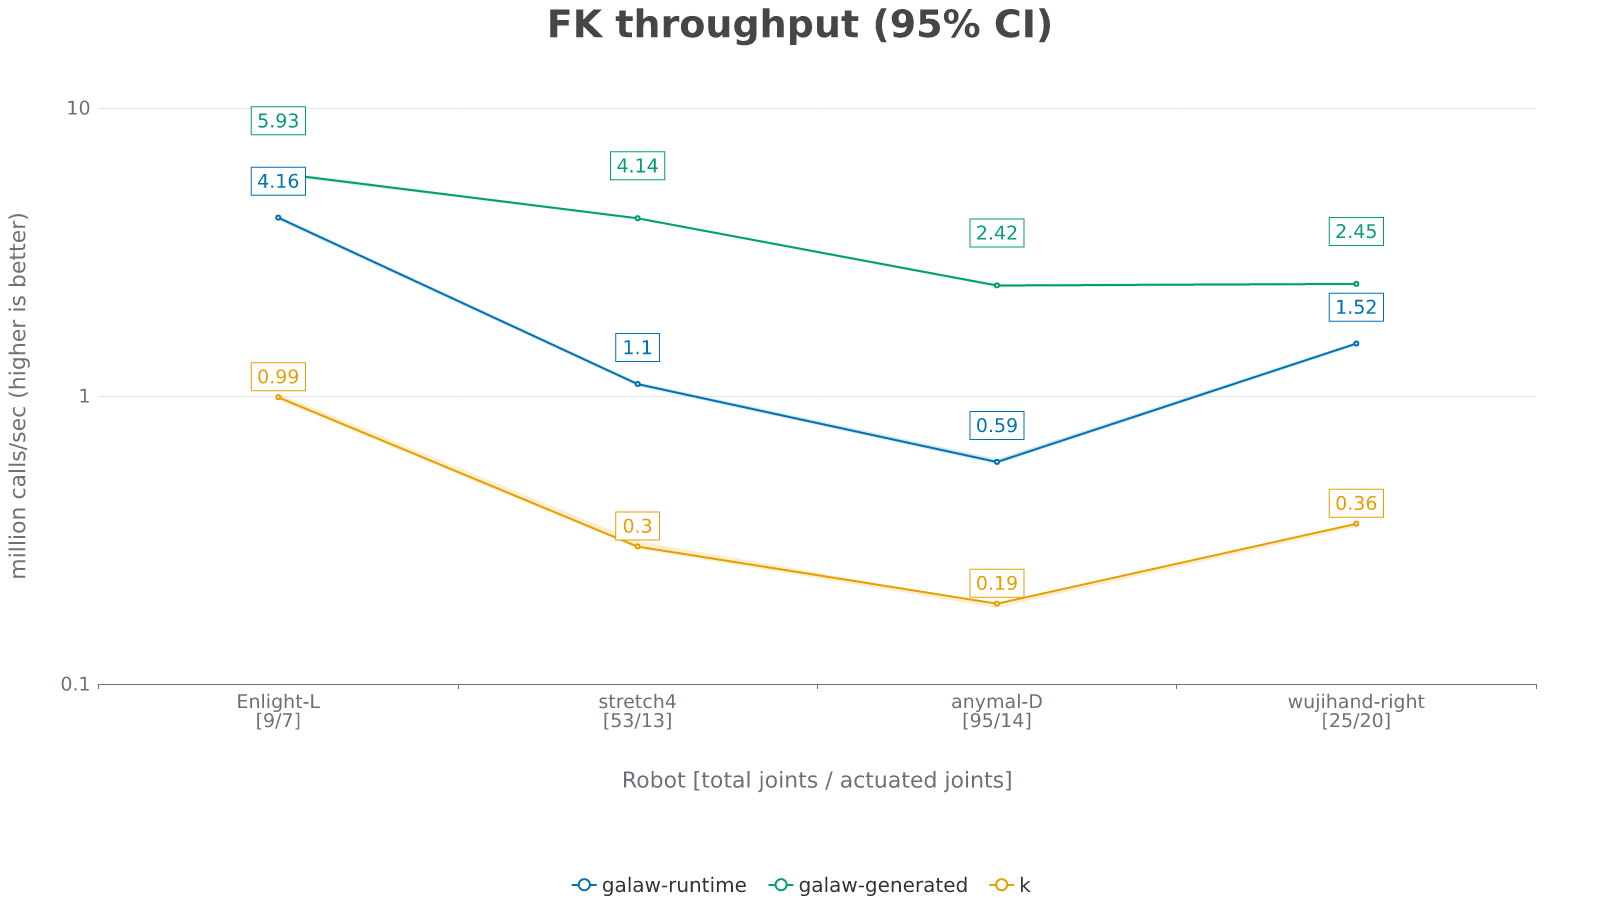
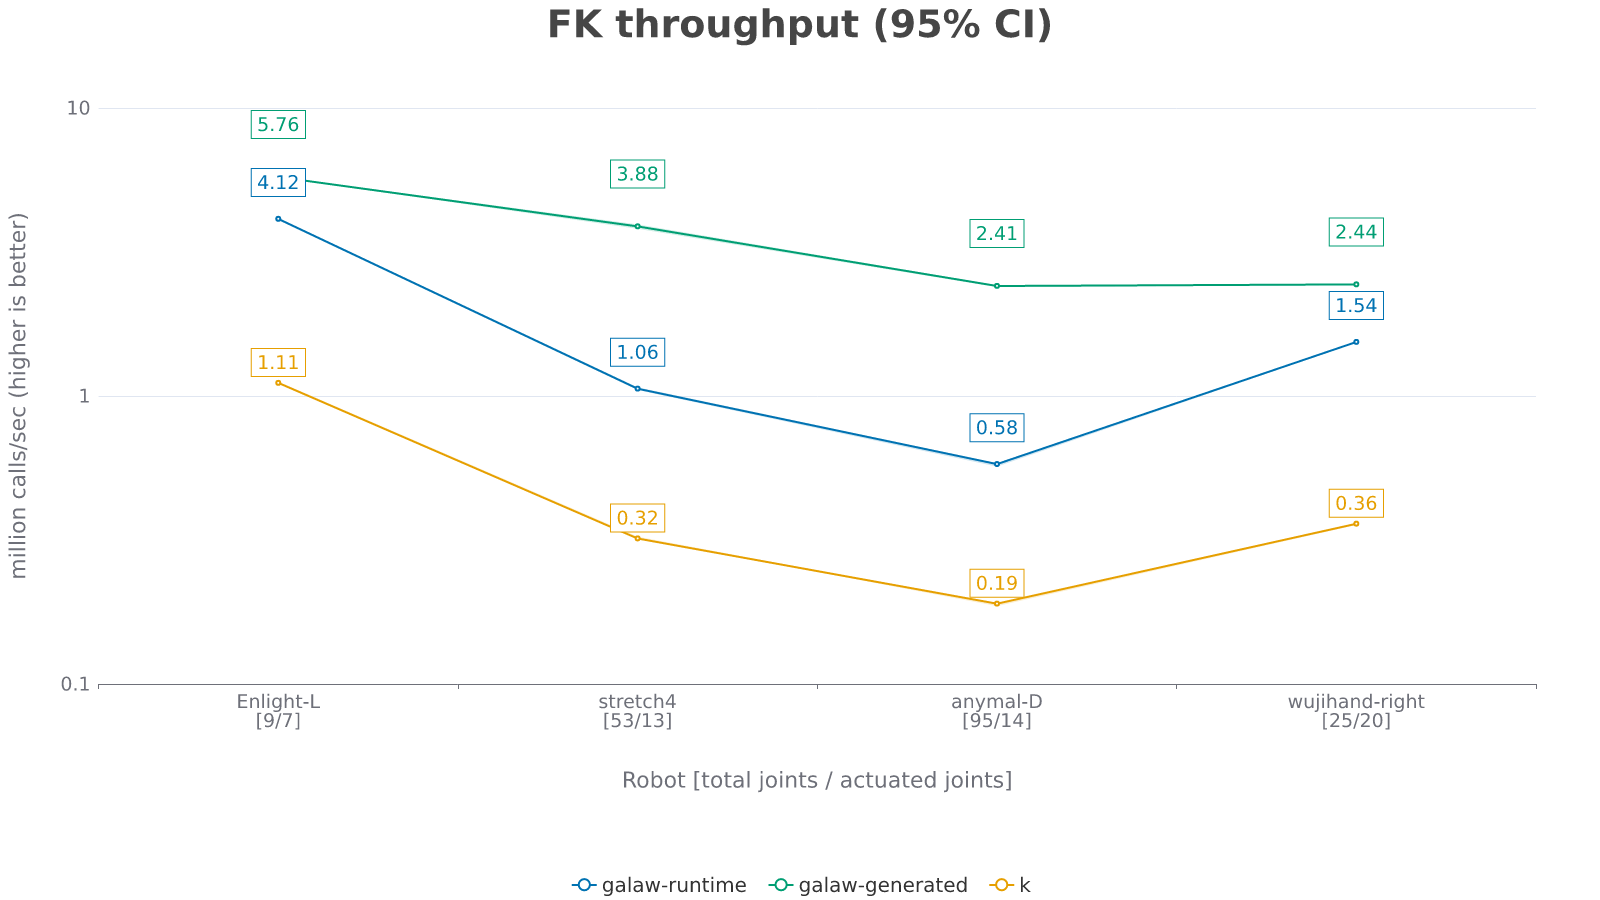
chore: updating plots and performance metrics reported based on latest benchmark results

diff --git a/README.md b/README.md
@@ -114,9 +114,9 @@ Full runnable version: [`examples/galaw_generated.rs`](examples/galaw_generated.
 
 | Operation | galaw-runtime vs k | galaw-generated vs k |
 |-----------|-------------------|----------------------|
-| FK        | ~3.3×             | ~8.9×                |
-| Jacobian  | ~7.7×             | ~16.7×               |
-| IK        | ~4.9×             | ~10.0×               |
+| FK        | ~3.5×             | ~8.6×                |
+| Jacobian  | ~22.6×            | ~38.2×               |
+| IK        | ~5.3×             | ~10.7×               |
 
 Reproduce with `cargo bench`, then plot with:
 
